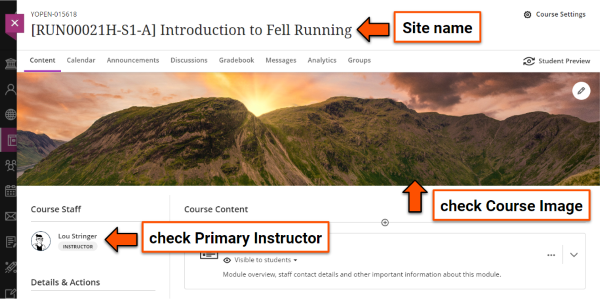
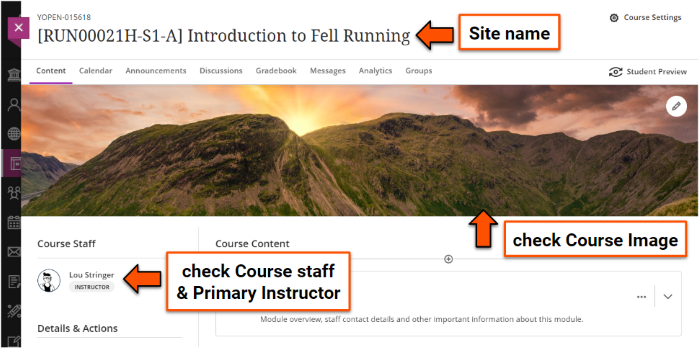
Update Site Readiness Checklist & integrate with Prep site

diff --git a/docs/ultra/site-readiness-checklist.md b/docs/ultra/site-readiness-checklist.md
@@ -11,149 +11,107 @@ tags:
 
 !!! Summary
 
-    Use this checklist to help identify and correct any issues in areas such as finalising content, accessibility, site/material visibility and enrollments before teaching begins.
+    Carry out final checks to identify and correct key start-of-teaching issues before opening the site to students.
 
 !!! principle "Relevant [VLE site design principles](../ultra/site-design-principles.md)"
 
     - 5.2 Recommended: Complete the Site Readiness Checklist before making the site available to students.
 
-Before a new teaching period, you need to make sure that your Learn Ultra VLE site and content is ready for students. We recommend that you check at least the items below to identify and address common issues so that students can use the site and materials effectively when teaching starts. You can also evaluate your site design more deeply using the [VLE site design principles](../ultra/site-design-principles.md).
+Before a new teaching period, you need to make sure that your Learn Ultra VLE site and content is ready for students. This checklist will help you identify and address critical issues so that students can use the site and materials effectively when teaching starts.
+
+It is assumed that more general checks have been made and site content is ready. If needed, follow our in-depth checklist on [Preparing module sites](../ultra/prepare-module-site.md) before using this final checklist.
 
 Whether teaching staff or administrators/professional services team complete the readiness checklist (or parts of it) may vary by department.
 
-!!! Success "Top tips for an effective site"
+## 1. Relevant staff are enrolled
 
-    - Make sure all materials and information are complete and up to date.
-    - Remove any unused template placeholders.
-    - Include all assessment-related information in the Assessment section.
-    - Use the Reading List to provide all readings.
+Check that:
 
-## 1. The site exists and staff are enrolled
+- all relevant module staff are enrolled with the correct role (usually Instructor)
+- any GTAs from previous years that are no longer involved in the module are removed
+- Primary Instructor settings are used to identify module-specific staff (where other staff are also enrolled)
 
-Firstly, make sure that you and other teaching staff have access to the site.
+More details on how to make these checks are given in the *Site settings & staff enrollments* section of [Preparing module sites](../ultra/prepare-module-site.md).
 
-<button class="md-button closed toggle">
-    Open all sections
-</button>
 
-??? essential "1.1 The site has been created and you have access"
-
-    - If you’re enrolled on a site, find it in your Course list by searching for the SITS code and/or module name. You can Favourite the site to pin it to the top of your Course list. See our [accessing sites guide for more details](../ultra/access-sites.md)
-    - If you can’t find the site in your Course list, contact your departmental administrator or professional support team to check that the site exists and/or enroll you. These teams generally have access to all of a department’s sites.
-
-??? essential "1.2 Other module teaching staff have access"
-
-    Check that relevant staff have access to the site:
-
-    - Click Class Register under Details & Actions in the left menu and check that all relevant staff (lecturers, demonstrators, GTAs etc.) are enrolled on the site with the right access level (usually Instructor). 
-    - If you need to enroll more staff, see our [guide to enrolling users]../ultra/(enrol-user.md) or contact your departmental administrator or professional support team.
-    - To change which staff appear in the "Course Staff" box on the main page of your VLE site, [see the Course Staff section of our enrolment guide](../ultra/course-staff.md).
 
 ## 2. Site content is ready 
 
 Check that site content and materials are accessible, in the right place and visible to students.
 
-<button class="md-button closed toggle">
-    Open all sections
-</button>
+!!! Tip
 
-??? essential "2.1 Accessibility"
+    If you have not already done so, we **strongly recommend** following the in-depth checklist on [Preparing module sites](../ultra/prepare-module-site.md) to appropriately prepare module content, Reading List and Panopto content.
 
-    It is a legal requirement that all our online content is accessible; this applies to your VLE site and any materials or files provided through it. Accessible materials also improve the learning experience for all students.
 
-    Check that:
+### The site applies the template
 
-    - **Text content** on the site itself and any files provided is easily readable and accessible: structured with Heading Styles, left-aligned text, sufficient colour contrast, legible font and text size, bulleted lists to break up content, tables only used for data etc. 
-    - Meaningful **images and figures** have appropriate ALT text or other descriptions to allow screenreader users to access the information. See our [images guide](images.md) for more information.
-    - **Link text** describes where the link goes or the content, eg. how to write better link text. Don’t use non-descriptive text like ‘click here’ or ‘find out more’. Don’t paste the full URL (eg. https://www.link.com). See our [links guide](links.md) for more information.
-    - **File titles** describe the content without having to open the file. This could include the week, type of materials, key word(s) relating to the topic, and a short module identifier. For example, material titles for the module ‘Mythical Creatures in Literature’ could use the format Week 3_Slides_Dragons_MCL. See our [files guide](files.md) for more information.
-    - Pre-recorded **videos** are hosted in a streaming service (eg. Panopto/YouTube) and captioned accurately. 
-    - Use an **accessibility checker** for all text and materials to identify errors and receive guidance on how to fix them (eg. [Blackboard Ally](https://help.blackboard.com/Ally/Ally_for_LMS/Instructor/Quick_Start) within Blackboard, [Grackle](https://www.grackledocs.com/) for Google Docs/Slides, [Microsoft Accessibility Checker](https://support.microsoft.com/en-us/office/improve-accessibility-with-the-accessibility-checker-a16f6de0-2f39-4a2b-8bd8-5ad801426c7f)).
-    
-    For more detail, see our [guide to accessible Ultra content](../accessibility/accessible-ultra-content.md). You can also attend our [Creating Accessible Documents workshop](http://bit.ly/eaccess-training) for a practical introduction.
+Check that the site has:
 
-??? essential "2.2 Template set-up"
+- used the broad template structure provided.
+- removed any unused template placeholder information or content items.
+- included all assessment-related information and submission points in the Assessment section.
 
-    - The site uses the overall structure provided in the departmental template. For most sites this includes sections for Module Information, Assessment and site materials (usually weekly sections), and Reading List and Replay Content integrations.
-    - All template placeholder content has been replaced with site-specific content or deleted if not needed.
-    - Unused Discussions, Tests and Assignments have also been deleted from the Discussion or Gradebook areas (access through the navigation bar above Course Content).
-    - Site materials have been built or added in the relevant sections.
+### The site and materials are accessible
 
-    For more details, see our [guide to using the Ultra template](../ultra/ultra-template.md).
+It is a legal requirement that all our online content is accessible; this applies to your VLE site and any materials or files provided through it. Accessible materials also improve the learning experience for all students.
 
-??? essential "2.3 Assessment information"
+Check that:
 
-    - All assessment information appears within the Assessment section, including an overview of assessment, clear instructions for each assessment task and details on how the work will be graded.
-    - Due dates for all assessments are set correctly (right day, time and year, etc). To make the site easier to maintain in future years, set deadlines within the assessment tool and avoid writing specific dates into text or documents.
-    - Assignment submission points and Tests are set up correctly and hidden/showing as they should be. See our [guide to release conditions](release-conditions.md) for more detail on managing content availability.
-    - Guidance for setting up and using submission points can be found in [our Assessments area](../assessment/index.md).
+- Text content on the site itself and any files provided is easily readable and accessible.
+- Meaningful images and figures have appropriate ALT text or other descriptions to allow screenreader users to access the information.
+- Link text describes where the link goes or the content.
+- content is organised and labelled clearly and consistently.
+- Pre-recorded **videos** are hosted in a streaming service (eg. Panopto/YouTube) and captioned accurately.
 
-??? essential "2.4 Site materials"
+We recommend using the [Ally Course Accessibility Report](https://docs.google.com/document/d/1oDokxj1Fcfw_CmxOTTT6yOT-CCvZrNAgM3IsVVGE1Is/edit?usp=sharing) to check the accessibility of your site and help you address issues.
 
-    - All site materials (eg. lecture slides, formative quizzes) are included in the correct location and are up to date. Any old or unused materials are removed.
-    - Items are visible. In Ultra, items are hidden from students by default and must be manually made visible. You can either change [content visibility](content-visibility.md) as you create items, or use the [batch edit function](batch-edit.md) to change the visibility of many items at once. Remember not to make the Staff: Ultra Guides section visible.
-    - Any reused Panopto videos, links and third party tools (eg. Padlet) are shared correctly so students have permission to access the material (see 2.5 & 2.7 below).
-    - Any content added using the Copy Content tool appears in the correct location and format, and has been restructured if needed. This is especially important for content copied from an Original site. For more information, see our [guide to copying content](copy-content.md).
+### Site materials are up to date and available
 
-??? essential "2.5 Video content (including Lecture Capture/Panopto)"
+Check that:
 
-    - All video content must be streamed from a dedicated media player (eg. Panopto or YouTube). **Video files must not be directly uploaded to the site or inside slide decks.**
-    - Lecture Capture set up:
-        - Your site should have a "Replay Lecture Capture (Panopto)" link towards the bottom of the Course Content area. If this does not appear, contact us at vle-support@york.ac.uk
-        - On the Timetable, check that lectures or sessions to be captured have the triangular "play" icon showing they are Replay-enabled. If you don't see this, contact your departmental administrator and/or [TimeTabling](https://www.york.ac.uk/about/departments/support-and-admin/estates-and-campus-services/timetablingandroombookings/). 
-        - See the [lecture capture web page](https://www.york.ac.uk/staff/teaching/support/recording-lectures/timetabled/) for more information on how the lecture capture system works.
-    - Pre-recorded or re-used Panopto content (eg. at-desk captures)
-        - Pre-recorded or re-used videos must be accurately captioned (including reused lecture captures from previous years).
-        - **Common issue**: check any Panopto videos linked to or embedded outside of the Replay Content area to make sure this cohort's students can access them (see guide below). Note that you being able to access a video doesn't mean that students can!
-    - For help re-using videos from previous academic years on your Ultra site (eg. “Ongoing Media”), or with making new “At-Desk” recordings, see [our Panopto help pages](../panopto/index.md).
+- all site materials are up to date.
+- any old or unused materials are removed.
+- items are visible to students or release conditions are set correctly.
+- any reused Panopto videos, links and third party tools (eg. Padlet) are shared correctly so students have permission to access the material.
+- any groups used for teaching (eg. presenting different material to M and H level students) are set up correctly and students enrolled.
 
-??? essential "2.6  Reading List"
+### Lecture Capture and Panopto are set up correctly
 
-    Sites must use the Reading List to provide course readings, unless there is a pressing reason not to (this should be discussed with your Faculty Librarian). Please ensure:
-    
-    - A link to the Reading List integration ("Reading-Lists") is included in the Course Content area.
-    - The Reading List is structured in the same way as the site materials (eg. in weekly sections).
-    - All module readings are included and unused/out of date items have been removed.
-    - Readings are not uploaded to the site (eg. a journal paper PDF) and web-based readings (eg. a journal pape webpage) aren't linked to directly.
-    - Items are tagged as Essential, Recommended or Background.
-    - The Reading List is released to students. 
-    - For assistance please contact the Library (lib-readinglists@york.ac.uk) or see the [Reading List guide](https://subjectguides.york.ac.uk/readinglists/home)
+Check that:
 
-??? essential "2.7 Web links and embedded content/third party tools (eg. Padlet, Xerte)"
+- all video content are streamed from Panopto (or YouTube etc.) and not directly uploaded to the site or inside slide decks.
+- the site contains a "Replay Lecture Capture (Panopto)" link in the Course Content area and lectures or sessions on teh Timetable to be captured have the triangular "play" icon showing they are Replay-enabled.
+- any pre-recorded or re-used Panopto content (eg. at-desk captures) is set up correctly so that this cohort's students can access them. Note that you being able to access a video doesn't mean that students can.
 
-    Links and embedded content (eg. Xerte, Padlet, videos, Qualtrics, Google Docs, Google Forms, etc) are not automatically updated every year, so check they still work and update manually as necessary.
-    
-    - Links and embeds still work and sharing settings are correct so students can access the content (see 2.5).
-    - A direct link is provided for each embedded item to open the content in full screen.
-    - Make the site easier to maintain in future years by using links that will stay the same rather than links that need to be updated every year. For example, link to a page where student handbooks are uploaded instead of a specific year’s handbook document.
-    
-    For more details, see our:
-    - [guide to adding Links](../ultra/links.md)
-    - [guide to embedded content](../ultra/embed-content.md)
+### Reading List
 
-??? essential "2.8 Groups"
+Sites must use the Reading List to provide course readings, unless there is a pressing reason not to (this should be discussed with your Faculty Librarian).
 
-    If you’re planning to use Groups within your site (eg. for seminar or project groups), check that these have been set up correctly. See our [guide to Groups](../ultra/course-groups.md) for more details.
+Check that:
+
+- the site contains a Reading List link in the Course Content area.
+- all module readings are included in teh Reading List and unused/out of date items have been removed.
+- the Reading List is structured to match the module amterials section, and items are tagged as Essential, Recommended or Background.
+- the Reading List is published to students.
+
+3. The site is set for students
 
 ## 3. Students can access the site
 For students to access a site, they must be enrolled on the site AND the site must be open for students.
 
-<button class="md-button closed toggle">
-    Open all sections
-</button>
+### Students are enrolled
 
-??? essential "3.1 Students are enrolled"
+Students are usually enrolled automatically onto VLE module sites using a “SITS Group User” enrolled on the site as a Guest, which then gives access to the relevant students. Check this is set up by seraching for a Guest role in your Class Register.
 
-    - To check if students are enrolled, click Class Register under Details & Actions in the left menu and look for users with the Student role.
-    - Students are usually enrolled automatically onto VLE module sites using a “SITS Group User” enrolled on the site as a Guest, which then pulls in the relevant students. You can check this by looking for a Guest role in your Class Register.
-    - If there are problems with student enrollments, contact your departmental administrator or professional support team for assistance.
+If there are problems with student enrollments, contact your departmental administrator or professional support team for assistance.
 
-??? essential "3.2 The site is open to students"
+### The site is open to students
 
-    When the site is ready for students, look for the padlock icon under Details & Actions in the left menu. If you see next to it:
-    
-    - Course is private/Students can’t access this course: click and select ‘Open to students’.
-    - Course is open/Students can access this course: this is correctly set up for enrolled students to access the site.
-    
-    Note that enrolled students will be always able to see the site listed in their course list, but if the course is private, they won't be able to open the site.
-    For more details, see [our guide to making your site open/private](../ultra/site-availability.md).
+When the site is ready for students, look for the padlock icon under Details & Actions in the left menu. If you see next to it:
+
+- Course is private/Students can’t access this course: click and select ‘Open to students’.
+- Course is open/Students can access this course: this is correctly set up for enrolled students to access the site.
+
+Note that enrolled students will be always able to see the site listed in their course list, but if the course is private, they won't be able to open the site.
+For more details, see [our guide to making your site open/private](../ultra/site-availability.md).

diff --git a/docs/ultra/prepare-module-site.md b/docs/ultra/prepare-module-site.md
@@ -9,30 +9,38 @@ tags:
 
 !!! Summary
 
-    Get ready for teaching with this walkthrough of updating an existing site after rollover or setting up a new site from a departmental template:
+    Prepare a site for teaching with this in-depth checklist to update an existing site after rollover or set up a new site from a departmental template:
 
     - develop an accessible, high-quality site.
-    - save time by focusing on what's important to get right.
-    - avoid common start-of-semester issues.
-    - explore Learn Ultra features that might be useful in your teaching.
+    - save time and avoid common start-of-semester issues.
+    - see applied examples of good practice in site design and material use.
+    - explore more advanced Ultra features available to support your teaching.
 
 !!! principle "Relevant [VLE site design principles](../ultra/site-design-principles.md)"
 
-    This walkthrough will help you meet all of the essential VLE site design principles.
+    This checklist will help you meet all of the essential VLE site design principles.
 
-Work through the guide in order or use the navigation on the right to jump to a specific section.
+Guidance focuses on sites based on a departmental template, but the advice is applicable to most other sites. Work through the checklist in order or use the navigation on the right to jump to a specific section.
 
-Each section contains: 
-
-- a checklist to prepare your site after rollover or set up from a template
-- links to relevant in-depth guides for features and tasks
-- examples of good practice in site set up
-
-This guide focuses on sites based on a departmental template, but the advice is applicable to most other sites.
+Already prepared your content? See the [Site Readiness Checklist](../ultra/site-design-principles.md) for final pre-teaching checks.
 
 --- 
 
-## 1: General site settings
+## Accessing the new site
+
+New sites are usually created for the next academic year in June or July. This can be:
+
+- **standard rollover**: a copy of the previous year's site, including most of the content, settings and enrollments.
+- **new from departmental template**: a blank copy of the template with only placeholder structre and content. Used for new modules and to refresh existing module sites.
+
+Once the site has been created, you can [find the site in your Courses list](../ultra/access-sites.md) by:
+
+- setting the Term to the upcoming academic year
+- searching for your module name or SITS code
+
+If you **can’t find the site in your Course list**, contact your departmental administrator or professional support team to check that the site exists and/or enroll you. 
+
+## General settings & staff enrollments
 For an introduction to key parts of the site, see the [Detailed guide: Navigate Ultra sites](../ultra/navigate-ultra-sites.md)
 
 === "Update after rollover"
@@ -40,8 +48,9 @@ For an introduction to key parts of the site, see the [Detailed guide: Navigate 
     !!! question "What is rolled over?"
 
         - **Site name**: automatically updated
-        - **Course image**, **Course staff**, **Primary Instructors**: copied, check and update as needed.
-        - **Course Groups**: blank copy (ie. empty groups included, but no enrollments)
+        - **Course image**: copied
+        - **Staff enrollments** and **Primary instructors**: copied, check and update as needed.
+        - **Course Groups**: empty groups included, but no enrollments
 
     <div markdown class="centered-image">
     ![Decorative](images/prepare-site-rollover-site-settings.png)
@@ -51,9 +60,11 @@ For an introduction to key parts of the site, see the [Detailed guide: Navigate 
     Site names have a standardised format needed for various systems to run. **You must not rename your site**. If there are any problems, please [contact us](mailto:vle-support@york.ac.uk) to resolve.
     2. **Check the [Course image](../ultra/course-image.md)**</br>
     Check that the Course image is still appropriate (eg. it doesn't reference a previous academic year) and update if needed.
-    3. **[Course staff](../ultra/course-staff.md): check Primary Instructor setting**</br>
-    Check that the correct module staff for that year are shown at the top of the Course staff list. If needed, identify/update module staff using the Primary Instructor setting.
-    4. **[Course groups](../ultra/course-groups.md)**: Check these are still appropriate and edit/delete as necessary, and update enrollments. Note: assessment administrators will manage any assessment-related groups.
+    3. **Staff enrollments & Primary Instructors**:
+        - click *Class Register* under *Details & Actions* in the left menu and check that all relevant staff (lecturers, demonstrators, GTAs etc.) are enrolled on the site with the right access level (usually Instructor). 
+        - if needed, [enrol](../ultra/enrol-user.md) missing module staff or [unenrol](../ultra/unenrol-user.md) any GTAs or other staff members who don't need access to this year's site (you can also contact your departmental administrator or professional support team for help witrh this).
+        - check/update [**Primary Instructor** settings](../ultra/course-staff.md) so that module staff appear at the top of the *Course Staff* list.
+    4. **[Course groups](../ultra/course-groups.md)**: If used, check these are still appropriate and edit/delete settings. Note: assessment administrators will manage any assessment-related groups.
 
 === "Set up site from template"
 
@@ -65,10 +76,14 @@ For an introduction to key parts of the site, see the [Detailed guide: Navigate 
     Site names have a standardised format needed for various systems to run. **You must not rename your site**. If there are any problems, please [contact us](mailto:vle-support@york.ac.uk) to resolve.
     2. **Select a [Course image](../ultra/course-image.md)**</br>
     Your departmental template contains a default Course image which shows as a banner in the site and a thumbnail on the Courses page. If desired, you can change this to something relevant to your specific module.
+    3. **Staff enrollments & Primary Instructors**:
+        - click *Class Register* under *Details & Actions* in the left menu and check that all relevant staff (lecturers, demonstrators, GTAs etc.) are enrolled on the site with the right access level (usually Instructor).
+        - if needed, [enrol](../ultra/enrol-user.md) missing module staff (you can also contact your departmental administrator or professional support team for help witrh this).
+        - apply [**Primary Instructor** settings](../ultra/course-staff.md) so that module staff appear at the top of the *Course Staff* list.
     3. **[Course staff](../ultra/course-staff.md): set Primary Instructor(s)**</br>
     If non-module staff are also enrolled on the site, identify all module teaching staff using the Primary Instructor setting. This will make sure the correct staff are shown first in the Course staff list.
 
-## 2: Module information
+## Module information
 
 <div markdown class="grid">
 <div markdown>
@@ -158,7 +173,7 @@ Prepare this section by:
     ![Module overview page as described in text](images/prepare-site-module-overview-example.png)
     </div>
 
-## 3: Assessment
+## Assessment
 
 <div markdown class="grid">
 <div markdown>
@@ -225,7 +240,7 @@ Prepare this section by:
     - course link to weekly section (Maths?)
     - exemplar Y2023-017605 (HEA - midwifery) -->
 
-## 4: Module materials & content
+## Module materials & content
 
 <div markdown class="grid">
 <div markdown>
@@ -392,7 +407,7 @@ As well as providing lecture slides and other file-based content, Ultra has othe
         See the [full case study for more details and the transcript (Beer)](../training/case-studies/sociology-beer.md).
 
 
-## 5. Reading List
+## Reading List
 
 <div markdown class="grid">
 <div markdown>
@@ -475,7 +490,7 @@ Note: the Reading Tool is supported by the [Library Reading List team](mailto:li
     ![Highlighted features as described in text](images/prepare-site-readinglist-example.png)
     </div>
 
-## 6. Panopto (Replay content) / Lecture capture
+## Panopto (Replay content) / Lecture capture
 
 Sites contain a Replay Lecture Capture (Panopto) LTI link to the module lecture capture recordings folder. You can also add your own at-desk recordings to this folder.
 
